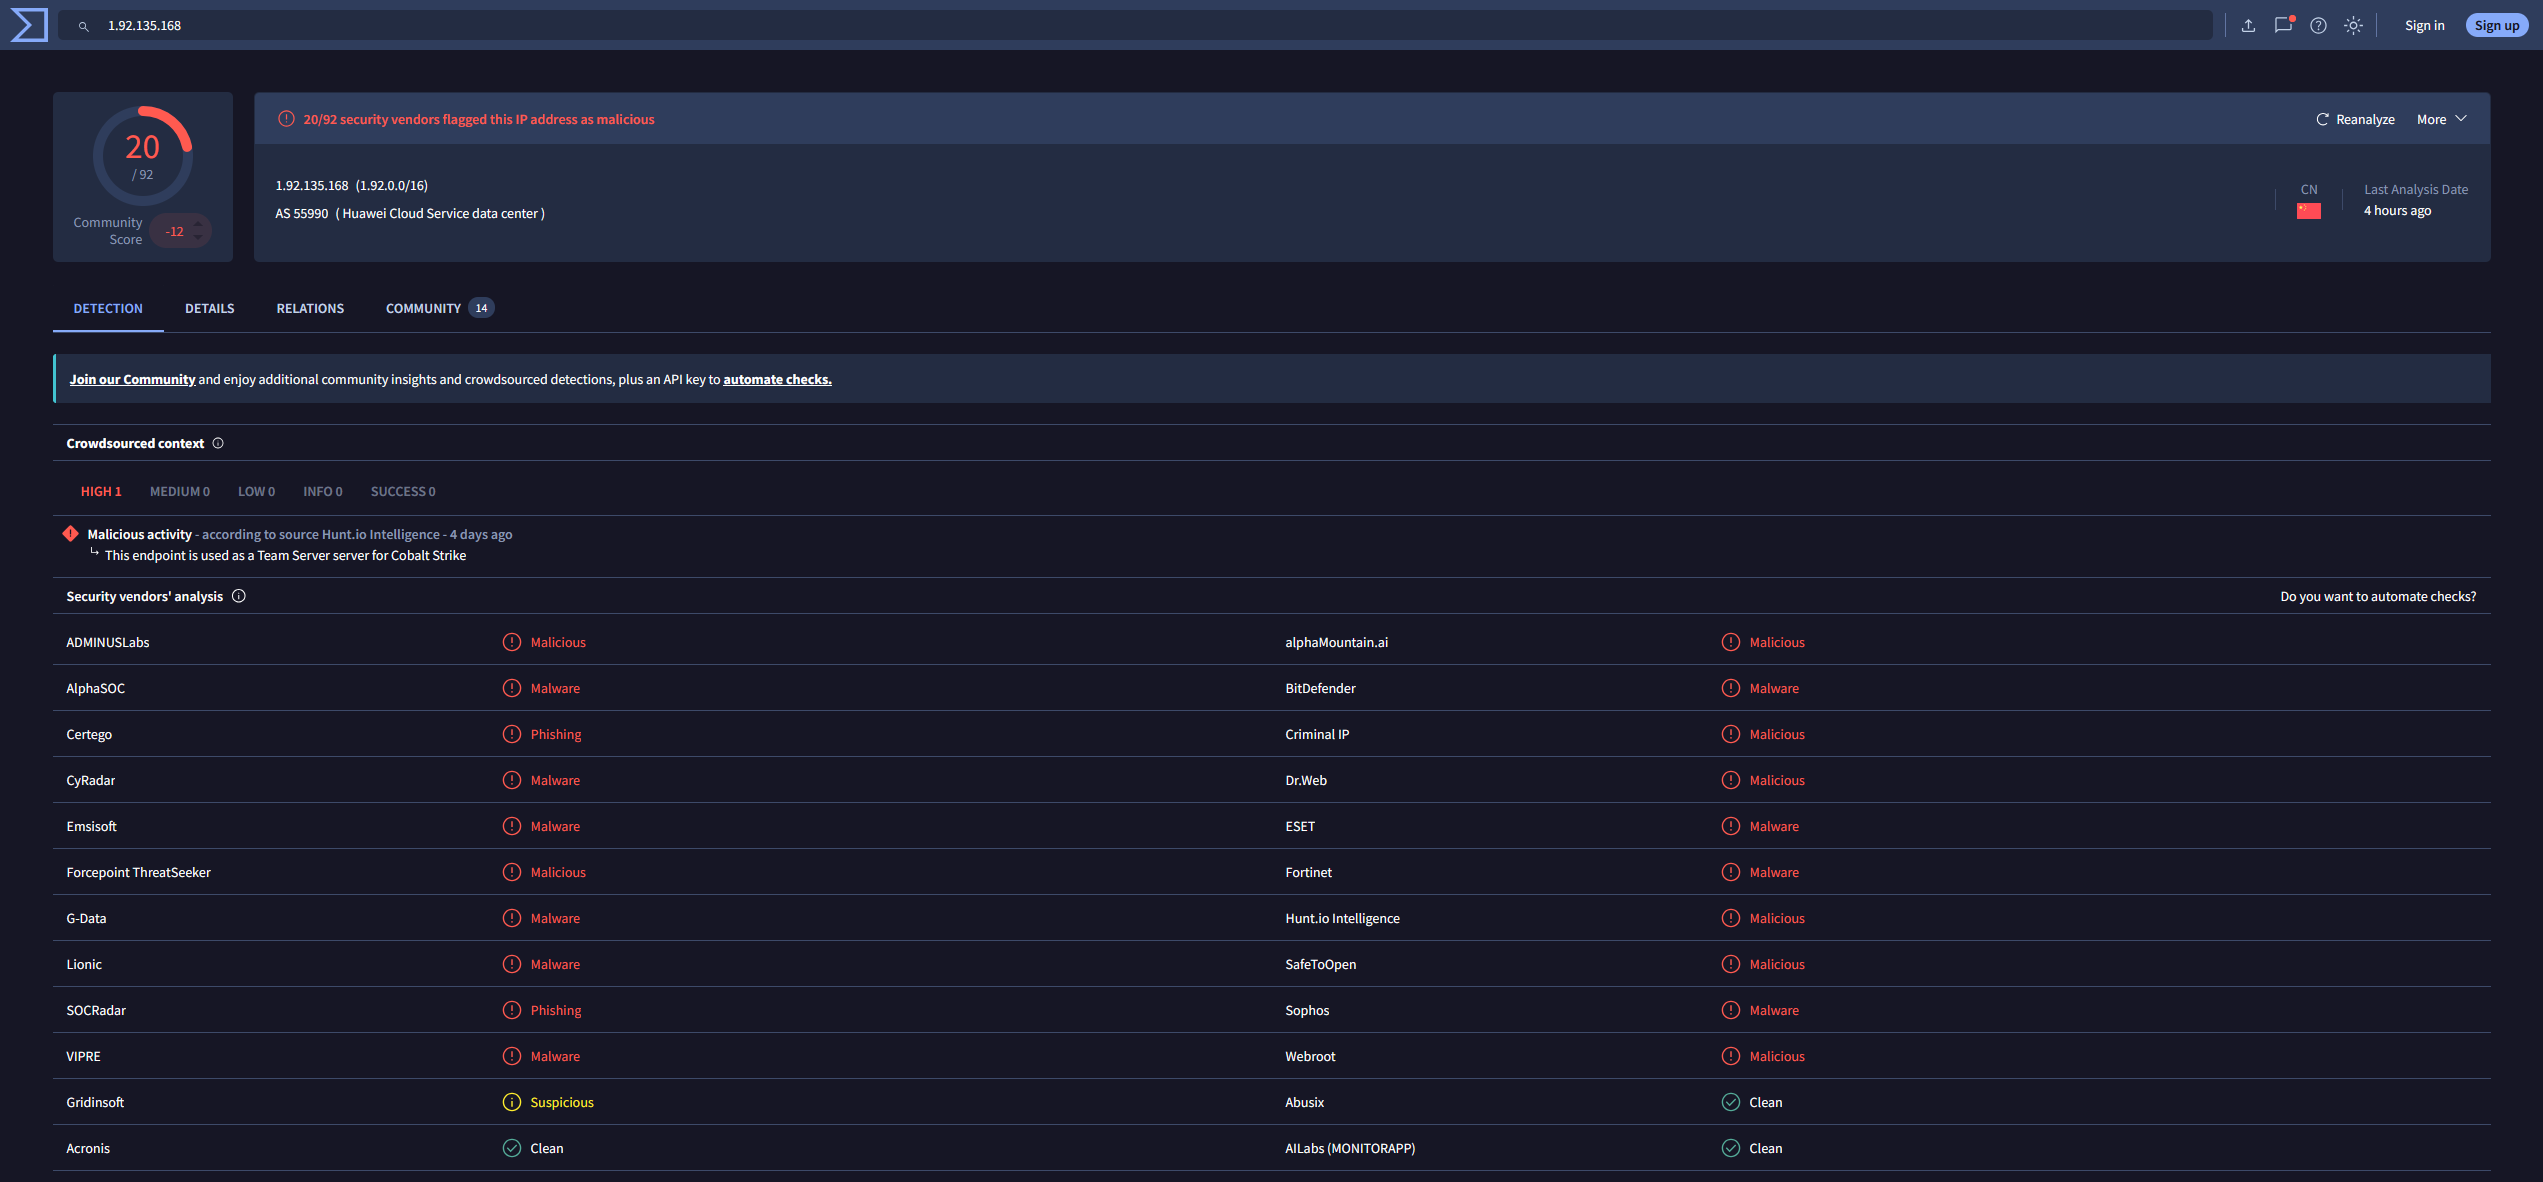
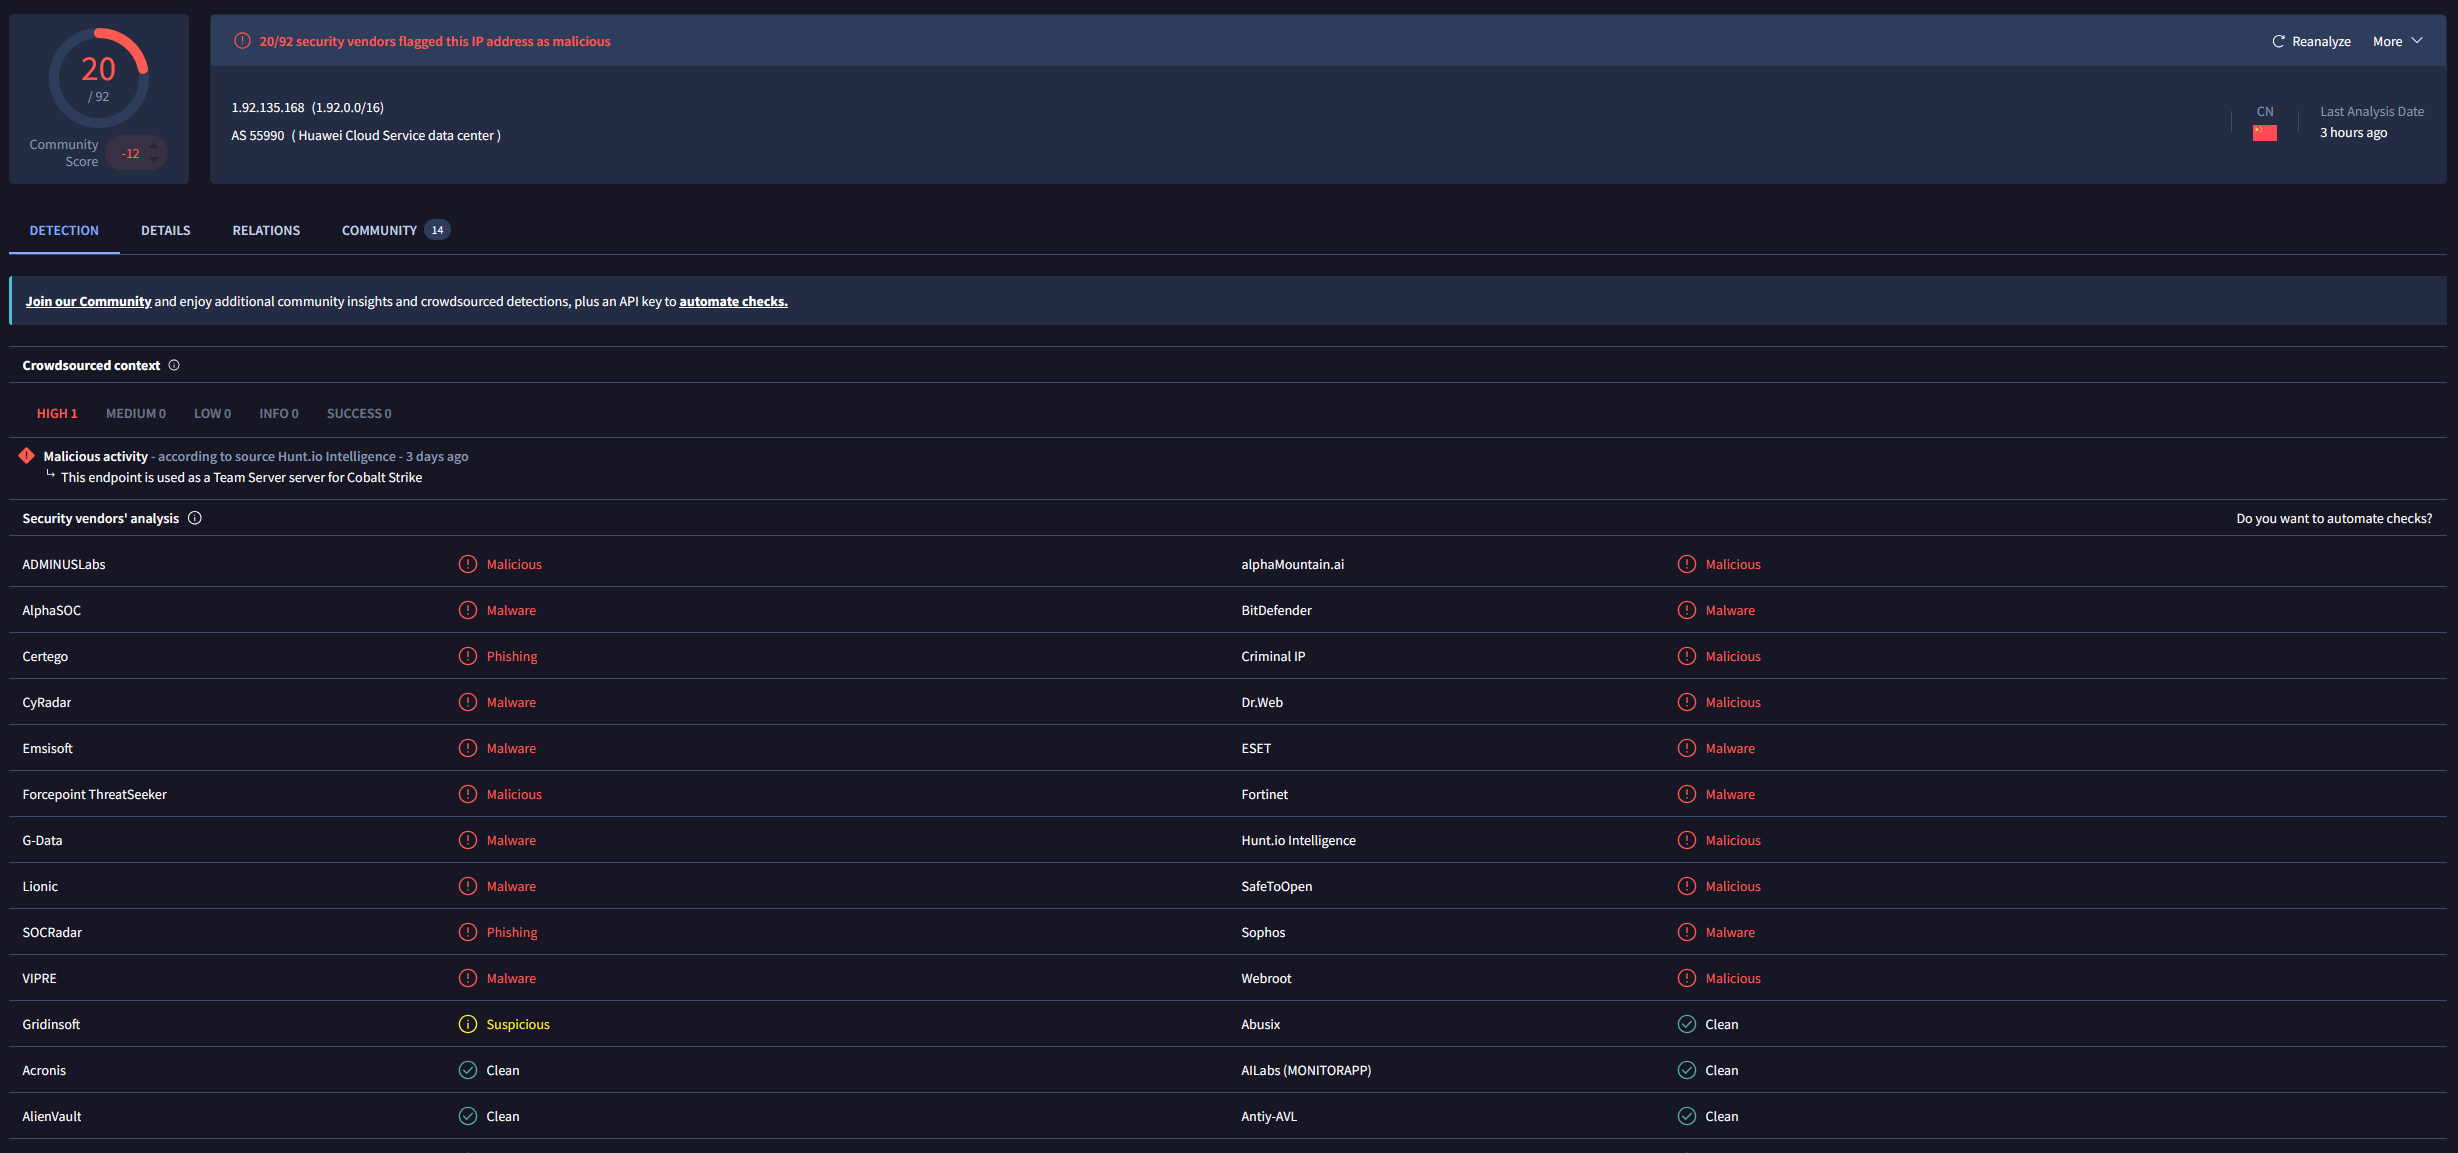
Scenario 02: add recaptured SOAR evidence (enrichment + observable)
Live pipeline evidence for the http-rule reframe:
- shuffle-run-201.png: webhook run, rule_id 100100 (FINISHED)
- thehive-alert.png: VT-enriched alert (VT malicious: 20, matches the live lookup)
- thehive-observable.png: the IOC attached as a TheHive observable
- virustotal-enrichment.png: manual VT lookup of 1.92.135.168 (20/92, Cobalt Strike C2)

evidence/README updated to list thehive-observable.png.

diff --git a/evidence/README.md b/evidence/README.md
@@ -17,7 +17,7 @@ tie together. Cross-host clocks are reconciled by event ID + UTC (see the
 **`scenario-02-phishing/`** — reframed as an L1 phishing investigation (redesigned 2026-10-27, **recapture pending**): email analysis (T1566.002) → IOC → http-event match on the lab phishing server `192.168.56.99` (rule 100100, T1204.001) → Shuffle → TheHive alert with IOC observable.
 - `emlanalyzer-output.txt` · `eml-analysis.png` (recapture — new sample, auth passes)
 - `wazuh-100100-alert.json` (http-event match, `dest_ip 192.168.56.99`) · `wazuh-100100-FALSE-POSITIVE-icmp.json` (naive rule over-matching a per-packet alert event — reproducible tuning exercise, see Scenario 02 §3a / challenges #14)
-- `shuffle-workflow.png` · `shuffle-run-201.png` · `thehive-alert.png` (IOC attached) · `virustotal-enrichment.png` (manual lookup, enrichment-capability demo §5b)
+- `shuffle-run-201.png` (webhook run, rule_id 100100) · `thehive-alert.png` (VT-enriched description: `VT malicious: 20`) · `thehive-observable.png` (the IOC attached as an observable) · `virustotal-enrichment.png` (manual lookup of `1.92.135.168` — 20/92, Cobalt Strike C2, §5b) · `shuffle-workflow.png`
 
 **`scenario-03-ssh/`** — SSH brute force, event `1792785099.20359`.
 - `attack-output.txt` (Hydra) · `alert-5712.json` (correlation) · `alert-5710.json` (per-attempt)
